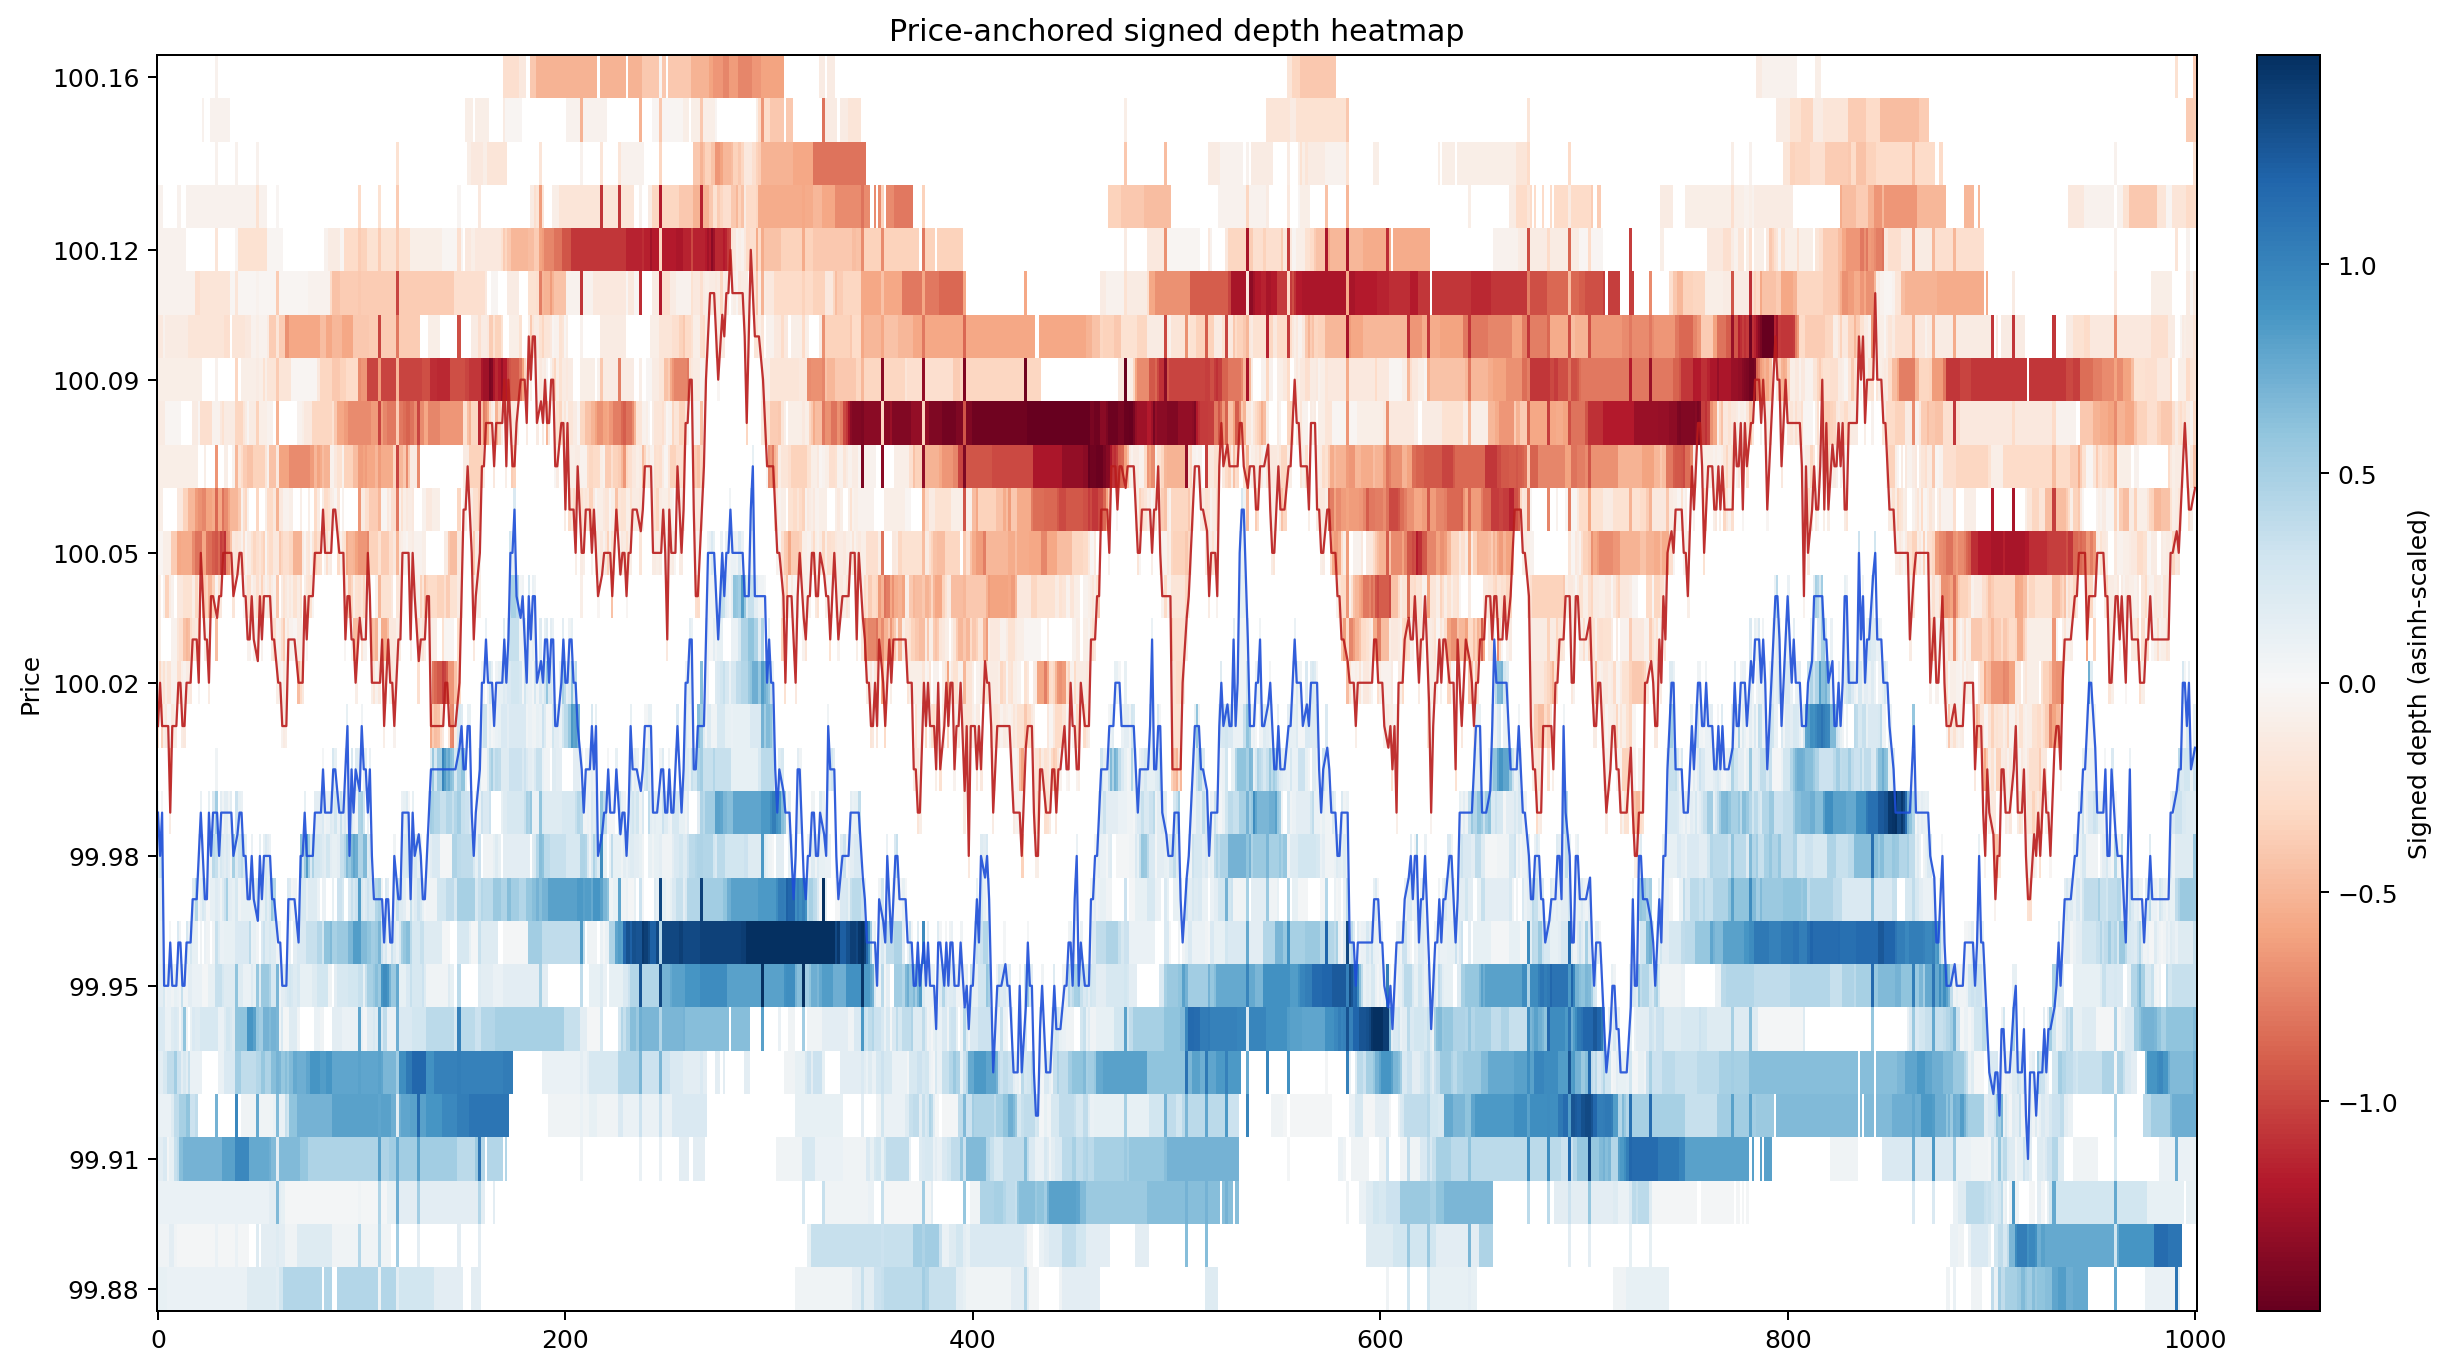
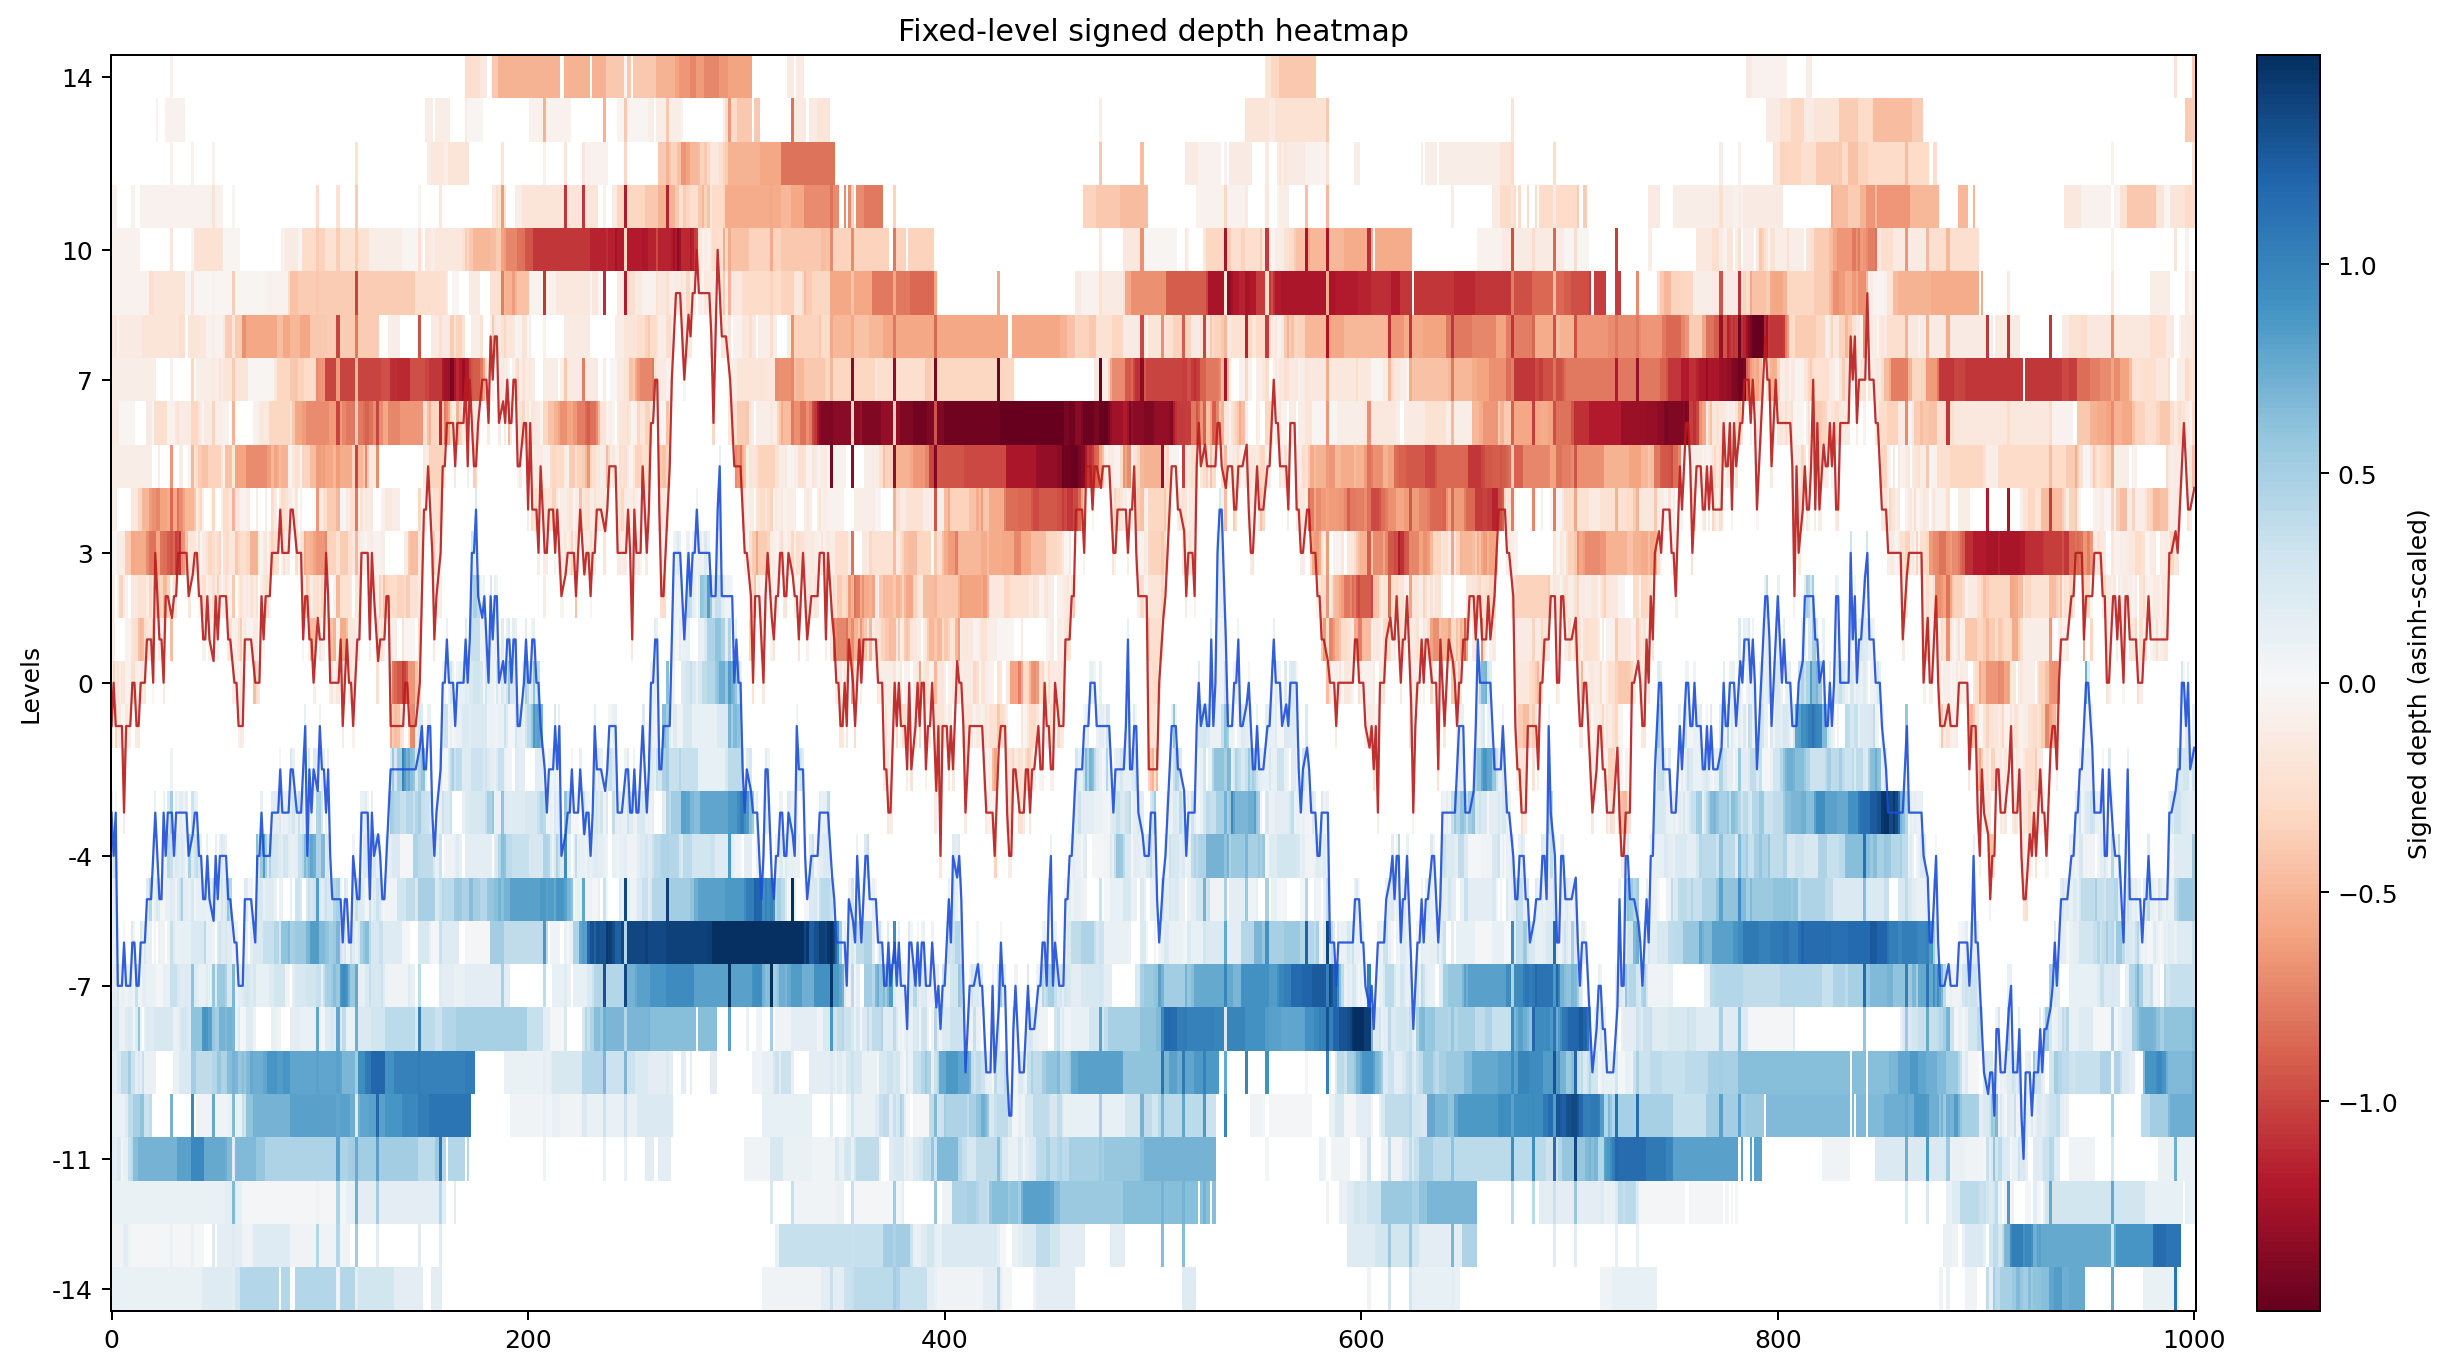
Normalize heatmap y-axis to levels

diff --git a/orderwave/visualization.py b/orderwave/visualization.py
@@ -146,7 +146,7 @@ def plot_heatmap(
         max_steps=max_steps,
         price_window_ticks=price_window_ticks,
     )
-    axis.set_title(title or ("Price-anchored heatmap" if anchor == "price" else "Mid-anchored heatmap"))
+    axis.set_title(title or ("Fixed-level heatmap" if anchor == "price" else "Mid-anchored heatmap"))
     return figure
 
 
@@ -310,7 +310,7 @@ def _prepare_heatmap(
             y_edges=y_edges,
             best_bid_trace=best_bid_trace,
             best_ask_trace=best_ask_trace,
-            ylabel="Relative ticks",
+            ylabel="Levels",
             yticks=ytick_positions,
             yticklabels=ytick_labels,
         )
@@ -336,12 +336,18 @@ def _prepare_heatmap(
             if 0 <= target < absolute_matrix.shape[0]:
                 absolute_matrix[target, column_index] = value
 
-    y_prices = np.array([tick_to_price(tick, tick_size) for tick in absolute_ticks], dtype=float)
-    y_step = tick_size
-    y_edges = np.concatenate(([y_prices[0] - (0.5 * y_step)], y_prices + (0.5 * y_step)))
-    best_bid_trace = np.array([tick_to_price(tick, tick_size) for tick in best_bid], dtype=float)
-    best_ask_trace = np.array([tick_to_price(tick, tick_size) for tick in best_ask], dtype=float)
-    ytick_positions, ytick_labels = _sparse_tick_labels(y_prices, unit="price")
+    anchor_center = int(round(float(np.median(centers))))
+    level_offsets = absolute_ticks.astype(float, copy=False) - float(anchor_center)
+    y_edges = np.concatenate(
+        (
+            [level_offsets[0] - 0.5],
+            level_offsets[:-1] + (np.diff(level_offsets) / 2.0),
+            [level_offsets[-1] + 0.5],
+        )
+    ).astype(float, copy=False)
+    best_bid_trace = best_bid - float(anchor_center)
+    best_ask_trace = best_ask - float(anchor_center)
+    ytick_positions, ytick_labels = _sparse_tick_labels(level_offsets, unit="")
     return HeatmapPayload(
         steps=steps,
         signed_depth=absolute_matrix,
@@ -349,7 +355,7 @@ def _prepare_heatmap(
         y_edges=y_edges,
         best_bid_trace=best_bid_trace,
         best_ask_trace=best_ask_trace,
-        ylabel="Price",
+        ylabel="Levels",
         yticks=ytick_positions,
         yticklabels=ytick_labels,
     )

diff --git a/scripts/render_doc_images.py b/scripts/render_doc_images.py
@@ -38,7 +38,7 @@ def render_diagnostics(outdir: Path) -> None:
         anchor="price",
         max_steps=900,
         price_window_ticks=18,
-        title="Price-anchored signed depth heatmap",
+        title="Fixed-level signed depth heatmap",
         figsize=(13.5, 7.5),
     )
     figure.savefig(outdir / "orderwave-built-in-diagnostics.png", dpi=180, bbox_inches="tight")

diff --git a/examples/plot_market_heatmap.py b/examples/plot_market_heatmap.py
@@ -50,7 +50,7 @@ def main() -> None:
             anchor="price",
             max_steps=min(args.steps, 1_200),
             price_window_ticks=16,
-            title=f"orderwave price heatmap (seed={args.seed})",
+            title=f"orderwave fixed-level heatmap (seed={args.seed})",
         )
     else:
         figure = market.plot(

diff --git a/tests/test_visualization.py b/tests/test_visualization.py
@@ -51,3 +51,4 @@ def test_plot_methods_return_figures_in_visual_mode() -> None:
     assert isinstance(overview, Figure)
     assert isinstance(heatmap, Figure)
     assert isinstance(book, Figure)
+    assert heatmap.axes[0].get_ylabel() == "Levels"

diff --git a/README.ko.md b/README.ko.md
@@ -36,10 +36,10 @@ book = market.plot_book()
 - `get()`: 현재 snapshot을 `dict`로 반환
 - `get_history()`: summary history를 `pandas.DataFrame`으로 반환
 - `plot()`: price path와 mid-anchor signed-depth heatmap 렌더. `capture="visual"` 필요
-- `plot_heatmap(anchor="mid" | "price")`: standalone heatmap 렌더. `capture="visual"` 필요
+- `plot_heatmap(anchor="mid" | "price")`: level 좌표계 기반 standalone heatmap 렌더. `capture="visual"` 필요
 - `plot_book()`: 현재 order book 렌더
 
-`capture="summary"`는 fast path를 최대한 가볍게 유지합니다. `capture="visual"`은 움직이는 시장 중심 주변의 fixed signed-depth window를 저장해서, heatmap에서 sweep, void, refill 구조가 보이게 합니다.
+`capture="summary"`는 fast path를 최대한 가볍게 유지합니다. `capture="visual"`은 움직이는 시장 중심 주변의 fixed signed-depth window를 저장해서, heatmap에서 sweep, void, refill 구조가 보이게 합니다. heatmap y축은 실제 가격이 아니라 level 기준입니다.
 
 ## Snapshot과 History
 

diff --git a/README.md b/README.md
@@ -36,10 +36,10 @@ book = market.plot_book()
 - `get()`: return the current snapshot as a `dict`.
 - `get_history()`: return the summary history as a `pandas.DataFrame`.
 - `plot()`: render the price path with a mid-anchored signed-depth heatmap. Requires `capture="visual"`.
-- `plot_heatmap(anchor="mid" | "price")`: render a standalone heatmap. Requires `capture="visual"`.
+- `plot_heatmap(anchor="mid" | "price")`: render a standalone heatmap on level coordinates. Requires `capture="visual"`.
 - `plot_book()`: render the current order book.
 
-`capture="summary"` keeps the fast path lean. `capture="visual"` stores a fixed signed-depth window around the moving market center so the heatmap can show sweep, void, and refill structure clearly.
+`capture="summary"` keeps the fast path lean. `capture="visual"` stores a fixed signed-depth window around the moving market center so the heatmap can show sweep, void, and refill structure clearly. Heatmap y-axes stay in level space rather than real prices.
 
 ## Snapshot and History
 

diff --git a/docs/ko/README.md b/docs/ko/README.md
@@ -26,7 +26,7 @@ plot surface:
 Heatmap 의미:
 
 - `anchor="mid"`는 움직이는 시장 중심 기준으로 row를 정렬하므로 sweep/refill 구조를 읽기 좋습니다.
-- `anchor="price"`는 실제 가격축 기준이라 drift와 persistent wall을 읽기 좋습니다.
+- `anchor="price"`는 고정 기준 ladder를 유지하지만, y축은 계속 가격이 아니라 level 기준입니다.
 - color는 robust asinh scaling이 적용된 signed depth라서 큰 wall 하나가 전체 contrast를 망치지 않습니다.
 
 ## 문서 이미지

diff --git a/docs/en/README.md b/docs/en/README.md
@@ -26,7 +26,7 @@ The plotting surface is:
 Heatmap semantics:
 
 - `anchor="mid"` centers rows on the moving market center and is best for reading sweeps and refills.
-- `anchor="price"` uses the real price axis and is best for reading drift and persistent walls.
+- `anchor="price"` keeps a fixed reference ladder, but the y-axis still shows levels rather than prices.
 - Colors are signed depth with robust asinh scaling, so one large wall does not flatten the rest of the book.
 
 ## Documentation Images
